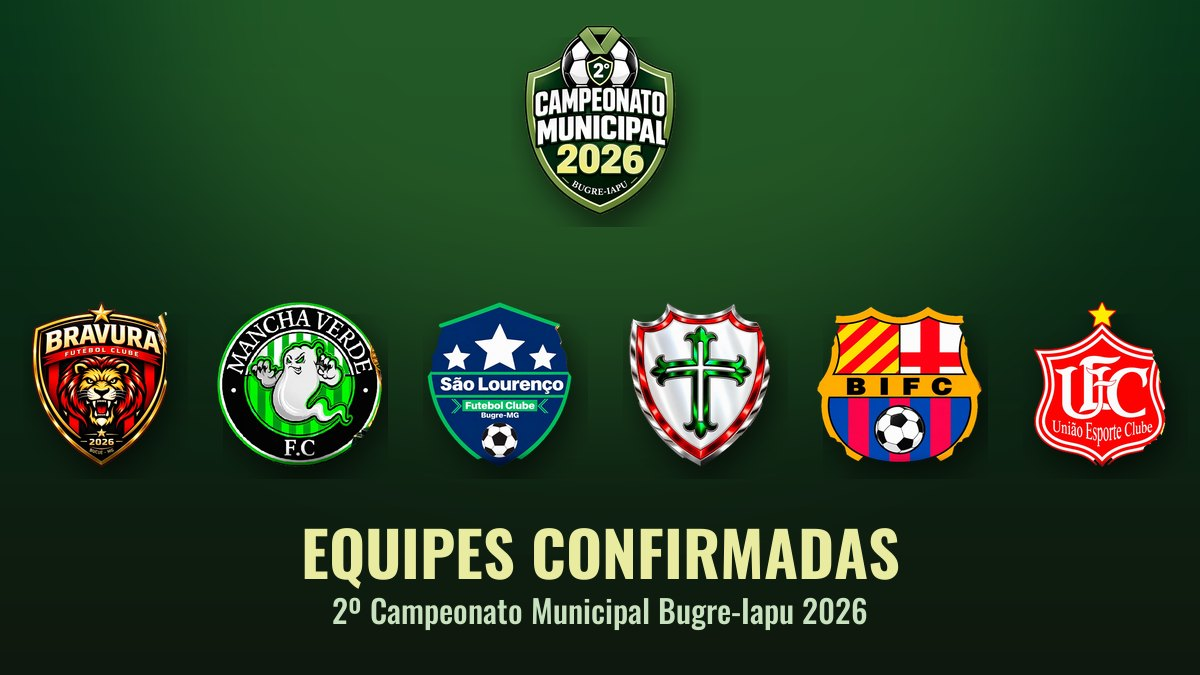
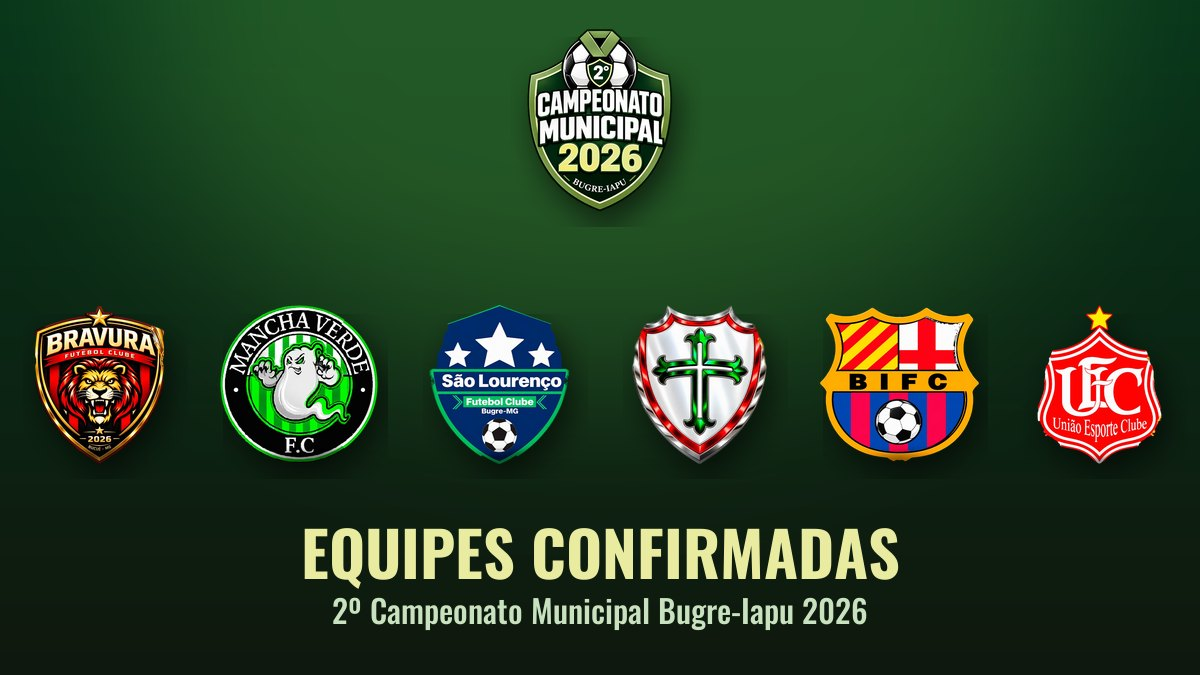
cross-group standings, Barra as União EC and cleaner crests
- standings: Group A teams play Group B teams, so a Bravura match marked
  "vale pela fase de grupos" now counts for Bravura in its group and for
  the opponent in the opponent's group (replaces the per-group select)
- data: Barra is the União Esporte Clube (6 teams, Barra uses the UEC
  crest); news rewritten for the cross-group format: Bravura's
  first-phase opponents are Portugueses, Barcelona and Barra
- crests recut with a matting model plus symmetric outlines, so the
  trophy and the green background no longer show around them; covers
  regenerated with the new crests

diff --git a/src/app/admin/campeonatos/[id]/ChampionshipMatchesTab.tsx b/src/app/admin/campeonatos/[id]/ChampionshipMatchesTab.tsx
@@ -94,17 +94,14 @@ export function ChampionshipMatchesTab({ championship, onSave, onError }: Props)
       setEditing({ ...editing, opponentTeamId: undefined });
       return;
     }
-    // Jogo contra time do mesmo grupo do Bravura já vem marcado para a classificação.
-    const bravura = championship.teams.find((row) => row.isBravura);
-    const sharedGroup = championship.groups.find(
-      (group) => group.teamIds.includes(team.id) && (!bravura || group.teamIds.includes(bravura.id))
-    );
+    // Adversário que está em algum grupo: o jogo já vem marcado como fase de grupos.
+    const inGroup = championship.groups.some((group) => group.teamIds.includes(team.id));
     setEditing({
       ...editing,
       opponentTeamId: team.id,
       opponent: team.name,
       opponentLogo: team.logo,
-      groupId: editing.groupId || sharedGroup?.id,
+      groupStage: editing.groupStage || inGroup || undefined,
     });
   }
 
@@ -179,21 +176,14 @@ export function ChampionshipMatchesTab({ championship, onSave, onError }: Props)
                 </div>
               )}
               {championship.groups.length > 0 && (
-                <div>
-                  <Label>Conta na classificação</Label>
-                  <Select
-                    className="mt-1"
-                    value={editing.groupId || ""}
-                    onChange={(e) => setEditing({ ...editing, groupId: e.target.value || undefined })}
-                  >
-                    <option value="">Não (mata-mata / outro)</option>
-                    {championship.groups.map((group) => (
-                      <option key={group.id} value={group.id}>
-                        {group.name}
-                      </option>
-                    ))}
-                  </Select>
-                </div>
+                <label className="flex items-center gap-2 self-end pb-2 text-sm">
+                  <input
+                    type="checkbox"
+                    checked={Boolean(editing.groupStage)}
+                    onChange={(e) => setEditing({ ...editing, groupStage: e.target.checked || undefined })}
+                  />
+                  Vale pela fase de grupos (entra na classificação)
+                </label>
               )}
               <div className="sm:col-span-2">
                 <Label>Adversário</Label>

diff --git a/src/lib/championship-stats.ts b/src/lib/championship-stats.ts
@@ -225,8 +225,9 @@ function standingValue(value: unknown) {
 }
 
 /**
- * Classificação do grupo: jogos do Bravura (partidas encerradas marcadas para o grupo) entram
- * sozinhos para os dois lados; jogos entre outros times vêm do lançamento manual.
+ * Classificação do grupo: jogos do Bravura marcados como fase de grupos entram sozinhos — para o
+ * Bravura no grupo dele e para o adversário no grupo do adversário (os grupos podem se enfrentar
+ * entre si). Jogos entre outros times vêm do lançamento manual.
  */
 export function getGroupStandings(championship: Championship, group: ChampionshipGroup): ChampionshipStandingRow[] {
   const teamsById = new Map(championship.teams.map((team) => [team.id, team]));
@@ -241,20 +242,22 @@ export function getGroupStandings(championship: Championship, group: Championshi
   }
 
   const bravura = getBravuraTeam(championship);
-  if (bravura && totals.has(bravura.id)) {
+  if (bravura) {
     for (const match of championship.matches) {
-      if (match.groupId !== group.id || !isPlayedChampionshipMatch(match)) continue;
+      if (!match.groupStage || !isPlayedChampionshipMatch(match)) continue;
+      const own = totals.get(bravura.id);
       const opponent = match.opponentTeamId ? totals.get(match.opponentTeamId) : undefined;
-      const own = totals.get(bravura.id)!;
       const result = championshipMatchResult(match);
       const goalsFor = match.scoreHome || 0;
       const goalsAgainst = match.scoreAway || 0;
 
-      own.goalsFor += goalsFor;
-      own.goalsAgainst += goalsAgainst;
-      if (result === "V") own.wins += 1;
-      if (result === "E") own.draws += 1;
-      if (result === "D") own.losses += 1;
+      if (own) {
+        own.goalsFor += goalsFor;
+        own.goalsAgainst += goalsAgainst;
+        if (result === "V") own.wins += 1;
+        if (result === "E") own.draws += 1;
+        if (result === "D") own.losses += 1;
+      }
 
       if (opponent) {
         opponent.goalsFor += goalsAgainst;

diff --git a/src/lib/championship-store.ts b/src/lib/championship-store.ts
@@ -107,7 +107,7 @@ function sanitizeGroups(groups: unknown, teamIds: Set<string>): ChampionshipGrou
   return Array.from(rows.values());
 }
 
-function sanitizeMatches(matches: unknown, playerIds: Set<string>, teamIds: Set<string>, groupIds: Set<string>): ChampionshipMatch[] {
+function sanitizeMatches(matches: unknown, playerIds: Set<string>, teamIds: Set<string>): ChampionshipMatch[] {
   const rows = new Map<string, ChampionshipMatch>();
   for (const item of Array.isArray(matches) ? (matches as ChampionshipMatch[]) : []) {
     const id = text(item?.id);
@@ -115,12 +115,11 @@ function sanitizeMatches(matches: unknown, playerIds: Set<string>, teamIds: Set<
     if (!id || !opponent) continue;
     const highlightPlayerId = text(item.highlightPlayerId);
     const opponentTeamId = text(item.opponentTeamId);
-    const groupId = text(item.groupId);
     rows.set(id, {
       id,
       opponent,
       ...(teamIds.has(opponentTeamId) ? { opponentTeamId } : {}),
-      ...(groupIds.has(groupId) ? { groupId } : {}),
+      ...(item.groupStage ? { groupStage: true } : {}),
       opponentLogo: text(item.opponentLogo),
       date: text(item.date),
       location: text(item.location),
@@ -153,7 +152,6 @@ function sanitizeChampionship(input: Championship): Championship {
   const teams = sanitizeTeams(input.teams);
   const teamIds = new Set(teams.map((team) => team.id));
   const groups = sanitizeGroups(input.groups, teamIds);
-  const groupIds = new Set(groups.map((group) => group.id));
   const name = text(input.name);
   const season = text(input.season) || String(new Date().getFullYear());
 
@@ -172,7 +170,7 @@ function sanitizeChampionship(input: Championship): Championship {
     teams,
     groups,
     players,
-    matches: sanitizeMatches(input.matches, playerIds, teamIds, groupIds),
+    matches: sanitizeMatches(input.matches, playerIds, teamIds),
   };
 }
 

diff --git a/src/app/admin/campeonatos/[id]/ChampionshipStandingsTab.tsx b/src/app/admin/campeonatos/[id]/ChampionshipStandingsTab.tsx
@@ -99,8 +99,9 @@ export function ChampionshipStandingsTab({ championship, onSave }: Props) {
         </div>
       </div>
       <p className="mb-6 max-w-3xl text-xs text-brand-gray">
-        Os jogos do Bravura entram sozinhos quando a partida está encerrada e marcada com o grupo. Nos campos V, E, D, GP e GC lance só os
-        jogos entre os outros times. P (pontos), J (jogos) e SG (saldo) são calculados.
+        Os jogos do Bravura entram sozinhos quando a partida está encerrada e marcada como fase de grupos — para o Bravura e para o
+        adversário, cada um no seu grupo (vale para Grupo A x Grupo B). Nos campos V, E, D, GP e GC lance só os jogos entre os outros
+        times. P (pontos), J (jogos) e SG (saldo) são calculados.
       </p>
 
       {championship.teams.length === 0 && (

diff --git a/src/types/index.ts b/src/types/index.ts
@@ -263,8 +263,11 @@ export interface ChampionshipMatch {
   opponent: string;
   /** Time cadastrado na aba Times (preenche nome e escudo). */
   opponentTeamId?: string;
-  /** Grupo em que o jogo conta para a classificação. */
-  groupId?: string;
+  /**
+   * Jogo da fase de grupos: o resultado entra na classificação do grupo de cada time
+   * (vale também para confronto entre grupos, ex.: Grupo A x Grupo B).
+   */
+  groupStage?: boolean;
   opponentLogo: string;
   date: string;
   location: string;
